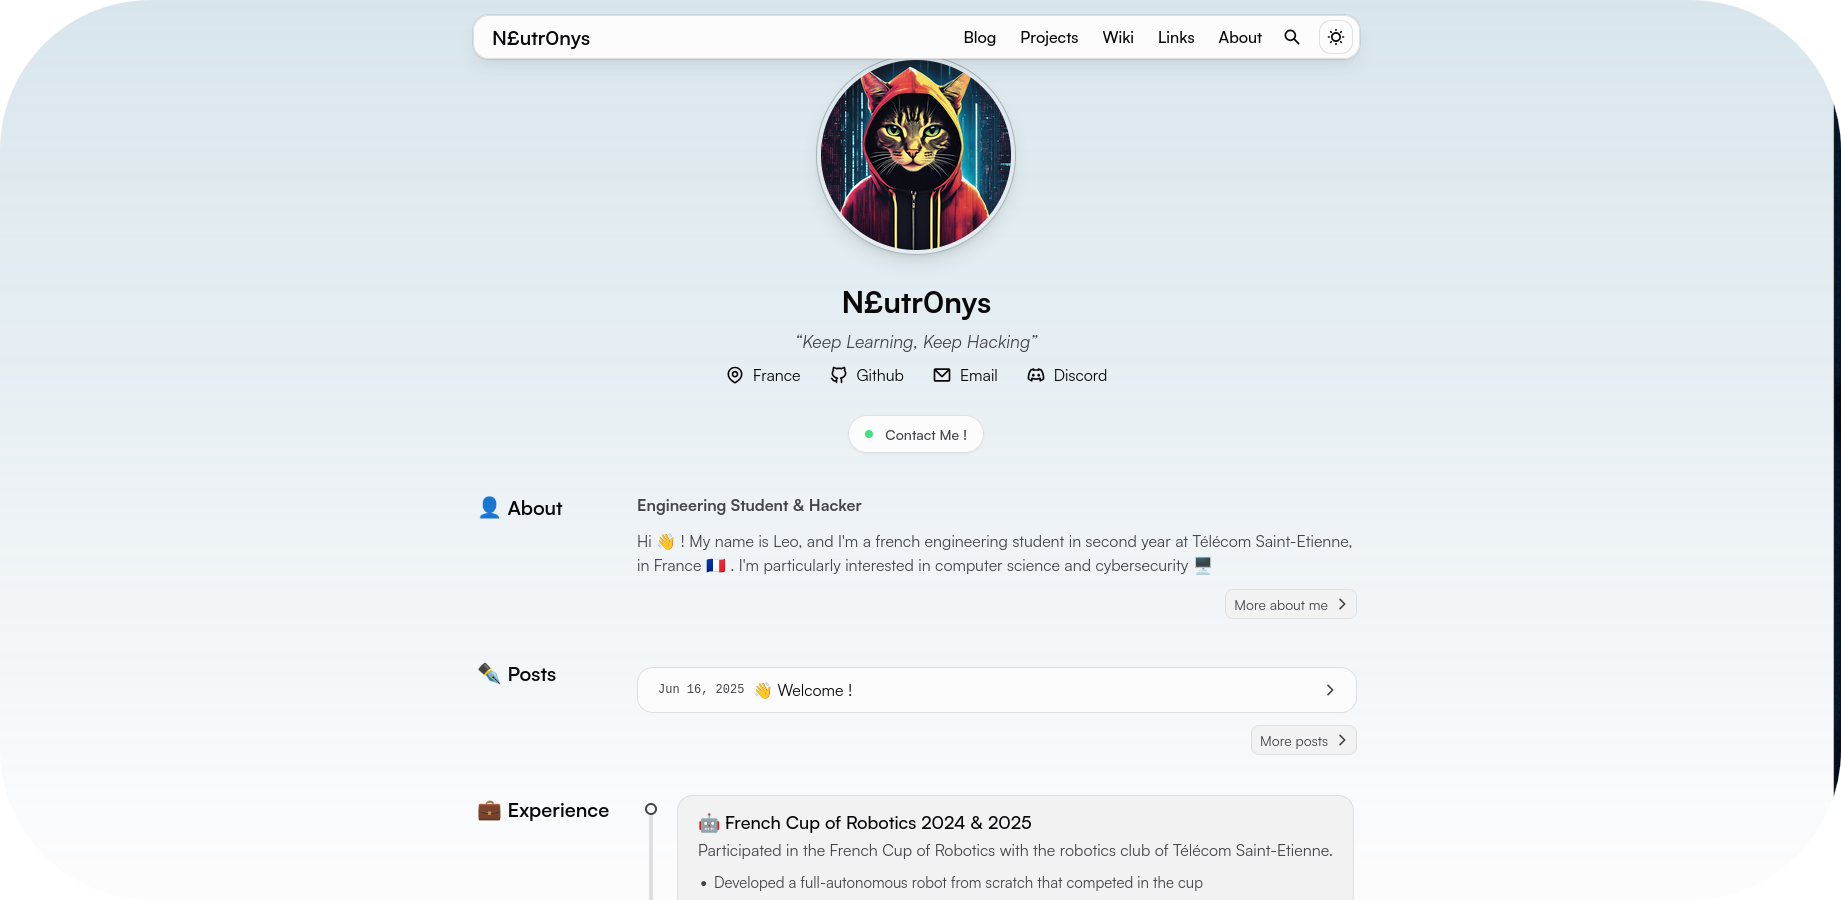
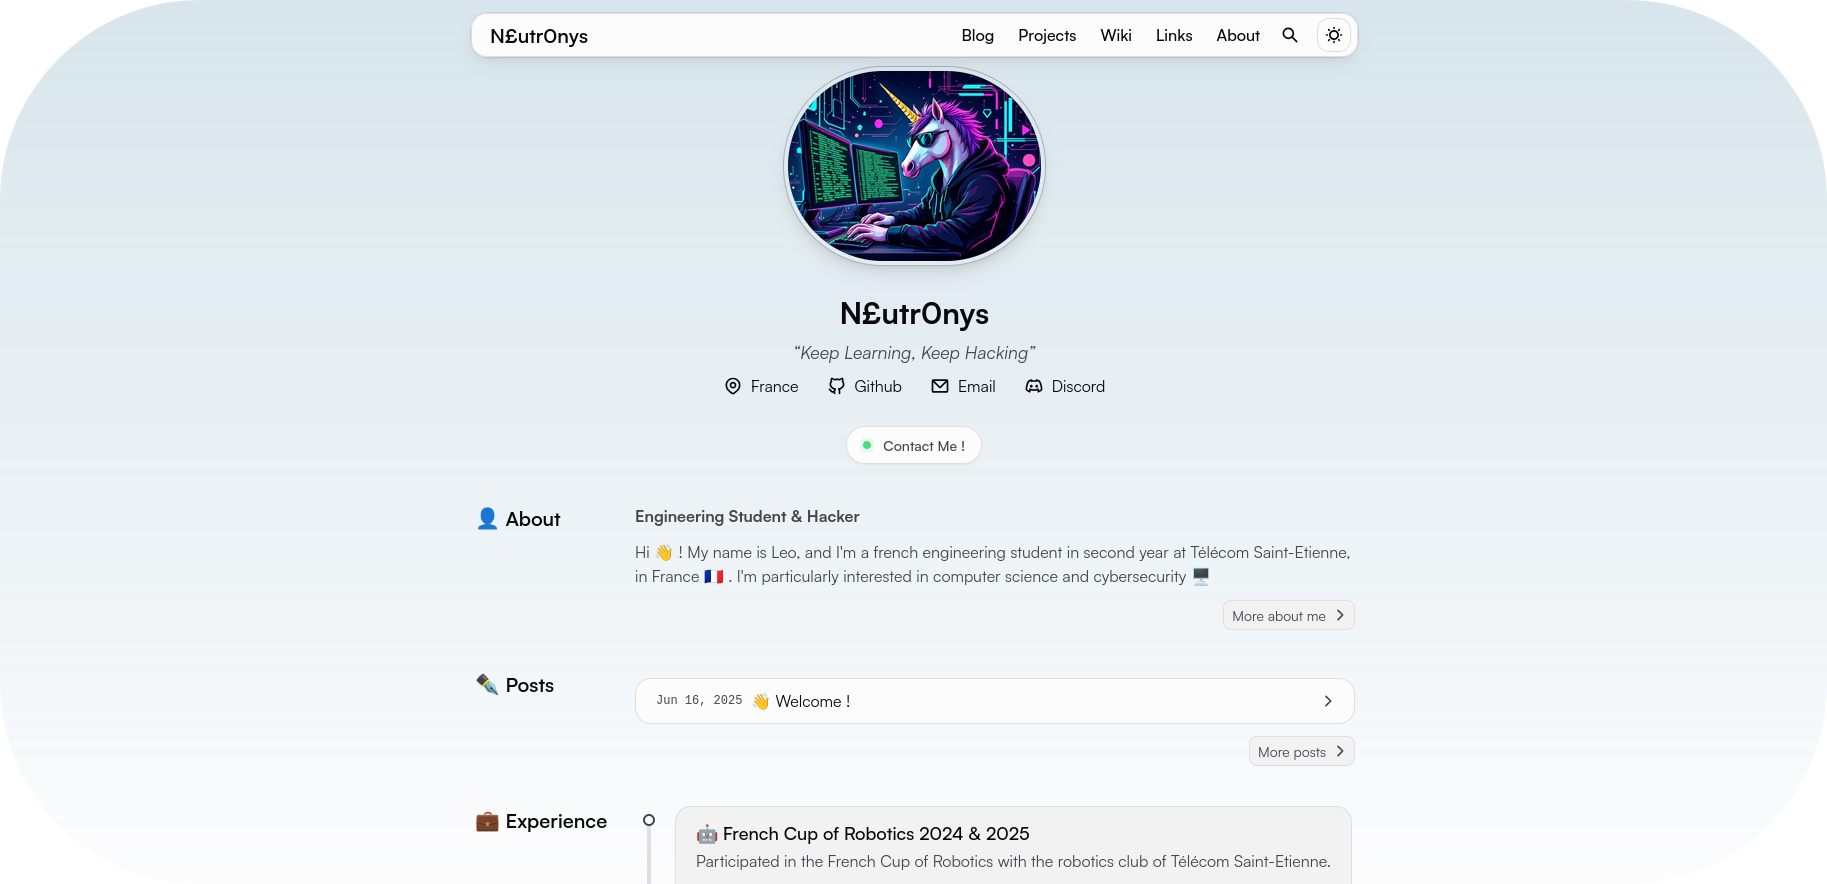
Improved README, and changed showcase screenshot

diff --git a/README.md b/README.md
@@ -1,16 +1,18 @@
-<div align="center"><img src="./public/favicon/android-chrome-192x192.png"></div>
+<div align="center">
+  <img src="./public/favicon/android-chrome-192x192.png">
+</div>
 <br>
 <h1 align="center">Portfolio</h1>
-
 <div align="center">
 
-![license](https://img.shields.io/github/license/leoraclet/leoraclet.github.io)
-![language](https://img.shields.io/github/languages/top/leoraclet/leoraclet.github.io)
-![lastcommit](https://img.shields.io/github/last-commit/leoraclet/leoraclet.github.io) <br>
-![Language](https://img.shields.io/badge/Language-JSX-1d50de)
-![Libraries](https://img.shields.io/badge/Framework-Astro-fa8925)
-![Size](https://img.shields.io/badge/Size-69Mo-f12222) ![Open
-Source](https://badges.frapsoft.com/os/v2/open-source.svg?v=103)
+  ![License](https://img.shields.io/github/license/leoraclet/leoraclet.github.io)
+  ![Top Language](https://img.shields.io/github/languages/top/leoraclet/leoraclet.github.io)
+  ![Last Commit](https://img.shields.io/github/last-commit/leoraclet/leoraclet.github.io)
+  <br>
+  ![Language](https://img.shields.io/badge/Language-JSX-1d50de)
+  ![Framework](https://img.shields.io/badge/Framework-Astro-fa8925)
+  ![Size](https://img.shields.io/badge/Size-69Mo-f12222)
+  ![Open Source](https://badges.frapsoft.com/os/v2/open-source.svg?v=103)
 
 </div>
 
@@ -24,55 +26,60 @@ Source](https://badges.frapsoft.com/os/v2/open-source.svg?v=103)
 - [🚀 Install \& Run](#-install--run)
 - [📜 License](#-license)
 
-
-
 ## 🌟 Showcase
-
-![screenshot](./public/portfolio.png)
+![Screenshot of the Portfolio](./public/portfolio.png)
 
 ## ❤ Thanks
 
-A big thank to [**CWorId**](https://github.com/cworld1) for his beautiful [**Astro
-template**](https://github.com/cworld1/astro-theme-pure) that I took time to configure and customise
-to my needs.
-
-**You can go check out his work !**
+A special thank you to [**CWorId**](https://github.com/cworld1) for his stunning [**Astro template**](https://github.com/cworld1/astro-theme-pure), which I took the time to configure and customize to suit my needs. Be sure to check out his work !
 
 ## 📖 About
 
-This repository hosts the source code for my [Portfolio](https://leoraclet.github.io/).
+This repository contains the source code for my [Portfolio](https://leoraclet.github.io/).
+
+> [!IMPORTANT]
+>
+> I have reimplemented several core components of **Astro Pure** to address the impacts on multiple components when enabling client-side routing.
+
 
 ## 📦 Structure
 
 **Directories**
 
-- [**`src`**](./src/) – Main source directory
-  - [**`assets`**](./src/assets/) – Contains images, icons, and other static assets
-  - [**`components`**](./src/components/) – Reusable custom components
-  - [**`content`**](./src/content/) – Blog posts written in Markdown
-  - [**`layout`**](./src/layouts/) – Reusable layout components for content pages
-  - [**`pages`**](./src/pages/) – Defines the structure and routing of site pages
-  - [**`plugins`**](./src/plugins/) – Lightweight enhancements for blog content
-
+- [**`src`**](./src/): Primary directory containing the source code
+  - [**`assets`**](./src/assets/): Houses images, icons, and other static resources
+  - [**`components`**](./src/components/): Collection of reusable custom components
+  - [**`content`**](./src/content/): Contains blog posts authored in Markdown
+  - [**`layout`**](./src/layouts/): Directory for reusable layout components used across content pages
+  - [**`pages`**](./src/pages/): Establishes the structure and routing for site pages
+  - [**`plugins`**](./src/plugins/): Includes lightweight enhancements for blog content
 
 **Files**
- - [**deploy.yml**](./.github/workflows/deploy.yml) - Automatic worflow to deploy on Github pages
-   when Push.
+
+- [**`deploy.yml`**](./.github/workflows/deploy.yml): Automated workflow for deploying to GitHub Pages upon push.
+- [**`LICENSE`**](./LICENSE): Contains the licensing information for the project.
+- [**`README.md`**](./README.md): Offers an overview and detailed documentation of the project.
+- [**`astro.config.mjs`**](./astro.config.mjs): Configuration settings for the Astro framework.
+- [**`bun.lock`**](./bun.lock): Bun lockfile that maintains consistent dependency versions.
+- [**`eslint.config.mjs`**](./eslint.config.mjs): Configuration settings for ESLint, the tool used for linting.
+- [**`package.json`**](./package.json): Holds project metadata and lists dependencies.
+- [**`prettier.config.mjs`**](./prettier.config.mjs): Configuration settings for Prettier, the code formatting tool.
+- [**`tsconfig.json`**](./tsconfig.json): Configuration settings for TypeScript.
+- [**`uno.config.ts`**](./uno.config.ts): Configuration settings for UnoCSS.
+- [**`.gitignore`**](./.gitignore): Lists files and directories to be ignored by Git.
+- [**`.prettierignore`**](./.prettierignore): Specifies files to be ignored by Prettier during formatting.
+
 
 ## 📚 Libraries
-
 > [!NOTE]
->
-> Those are only the main libraries, but you can find the rest in [`packages.json`](./package.json)
+> These are only the main libraries; you can find the rest of the dependencies in [`package.json`](./package.json).
 
-- [**Astro**](https://astro.build/) - The web framework for content-driven websites
-- [**Astro-pure**]() - Astro portfolio template
+- [**Astro**](https://astro.build/): The web framework for content-driven websites.
+- [**Astro-pure**](https://github.com/cworld1/astro-theme-pure): Astro portfolio template.
 
 ## 🚀 Install & Run
 
-First, ensure you have [**bun**](https://bun.com/) installed on your system.
-
-Then, clone the repo
+First, ensure you have [**bun**](https://bun.com/) installed on your system. Then, clone the repository:
 
 ```bash
 git clone https://github.com/leoraclet/leoraclet.github.io
@@ -85,13 +92,13 @@ Install dependencies
 bun install
 ```
 
-And now you can run the developement server using
+You can now run the development server using:
 
 ```bash
 bun run dev
 ```
 
-You can also build and preview the production server using
+You can also build and preview the production server using:
 
 ```bash
 bun run build
